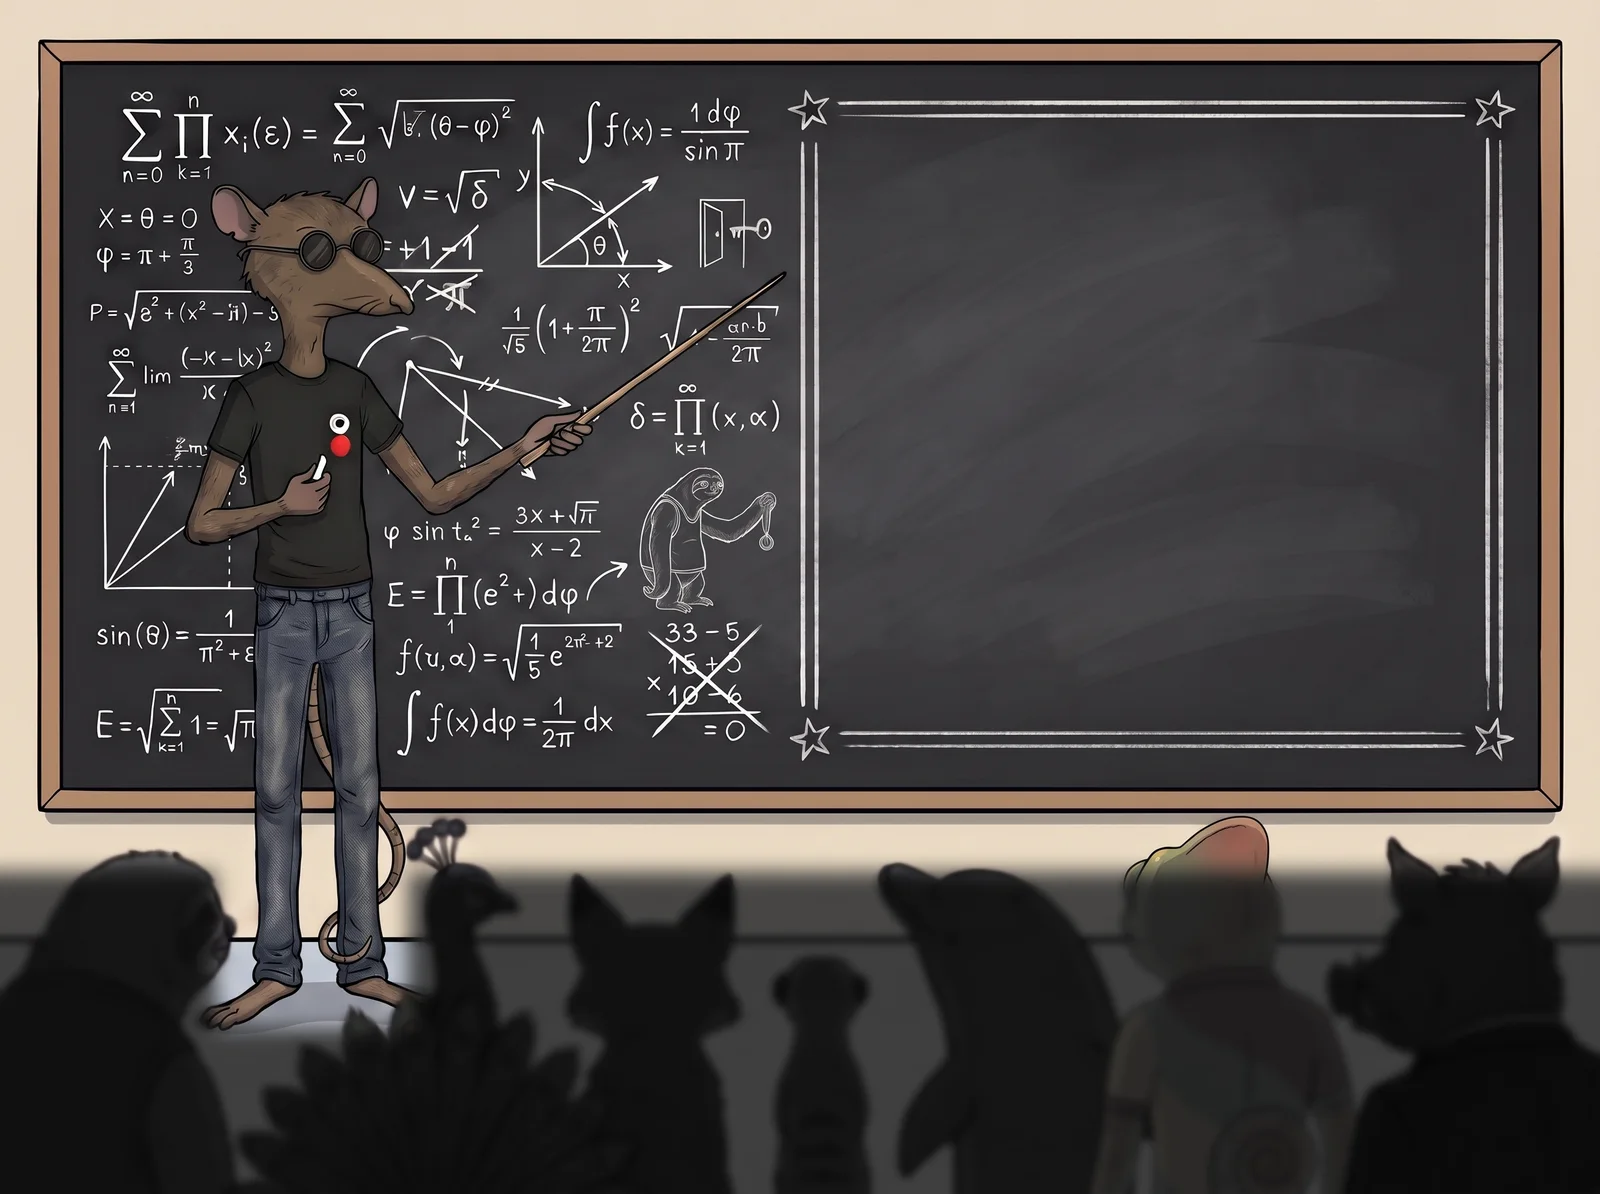
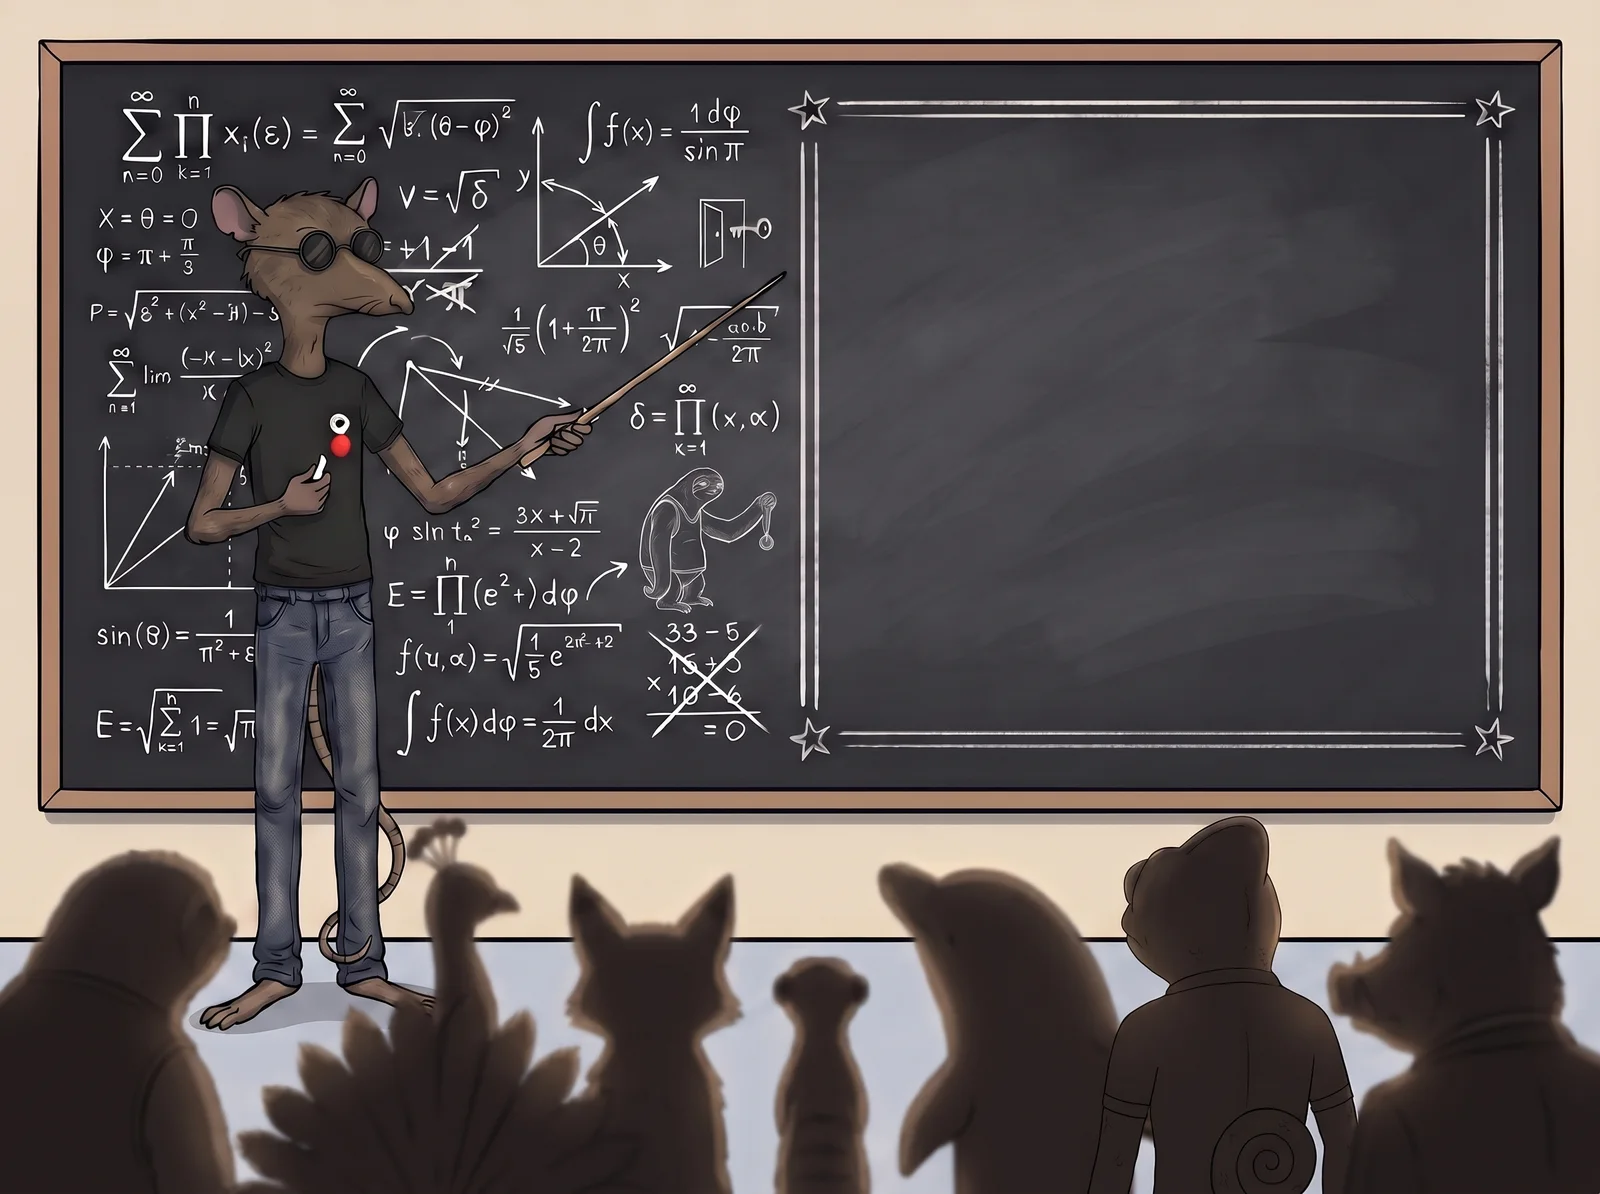
Academy: alumnos como siluetas a contraluz naturales (sin franja oscura)

diff --git a/academy/index.html b/academy/index.html
@@ -38,7 +38,7 @@
       <p class="lead rv d2">Formación comercial, comunicacional y creativa para deportistas, familias y academias. Empieza con un test para descubrir qué tipo de deportista eres y cuatro herramientas gratuitas: valora tu perfil, construye tu pitch, entrena la reunión y arma tu plan editorial.</p>
     </div>
     <div class="vis ac-cl-w"><figure class="ac-cl" role="img" aria-label="Espid da clase frente a una pizarra llena de fórmulas: el talento abre la puerta y la preparación la sostiene abierta. Sus alumnos, los animales deportistas, lo miran de espaldas.">
-      <img src="../assets/img/academy_clase.webp?v=2" alt="" width="1600" height="1194">
+      <img src="../assets/img/academy_clase.webp?v=3" alt="" width="1600" height="1194">
       <div class="cl-tiza" aria-hidden="true">
         <p class="t1">TALENTO <span>→</span> abre la puerta</p>
         <p class="t2">+ PREPARACIÓN <span>→</span> la sostiene</p>
